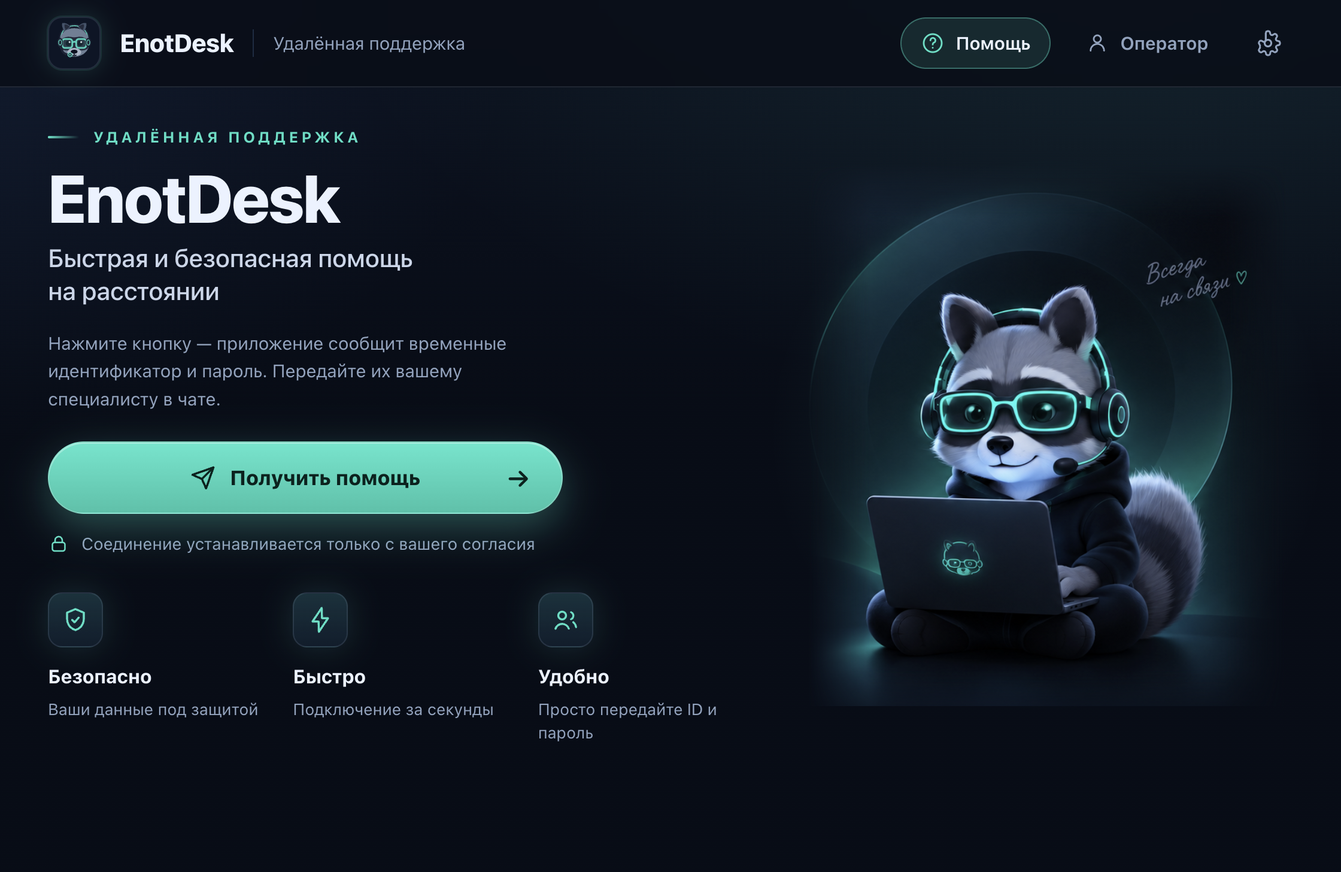
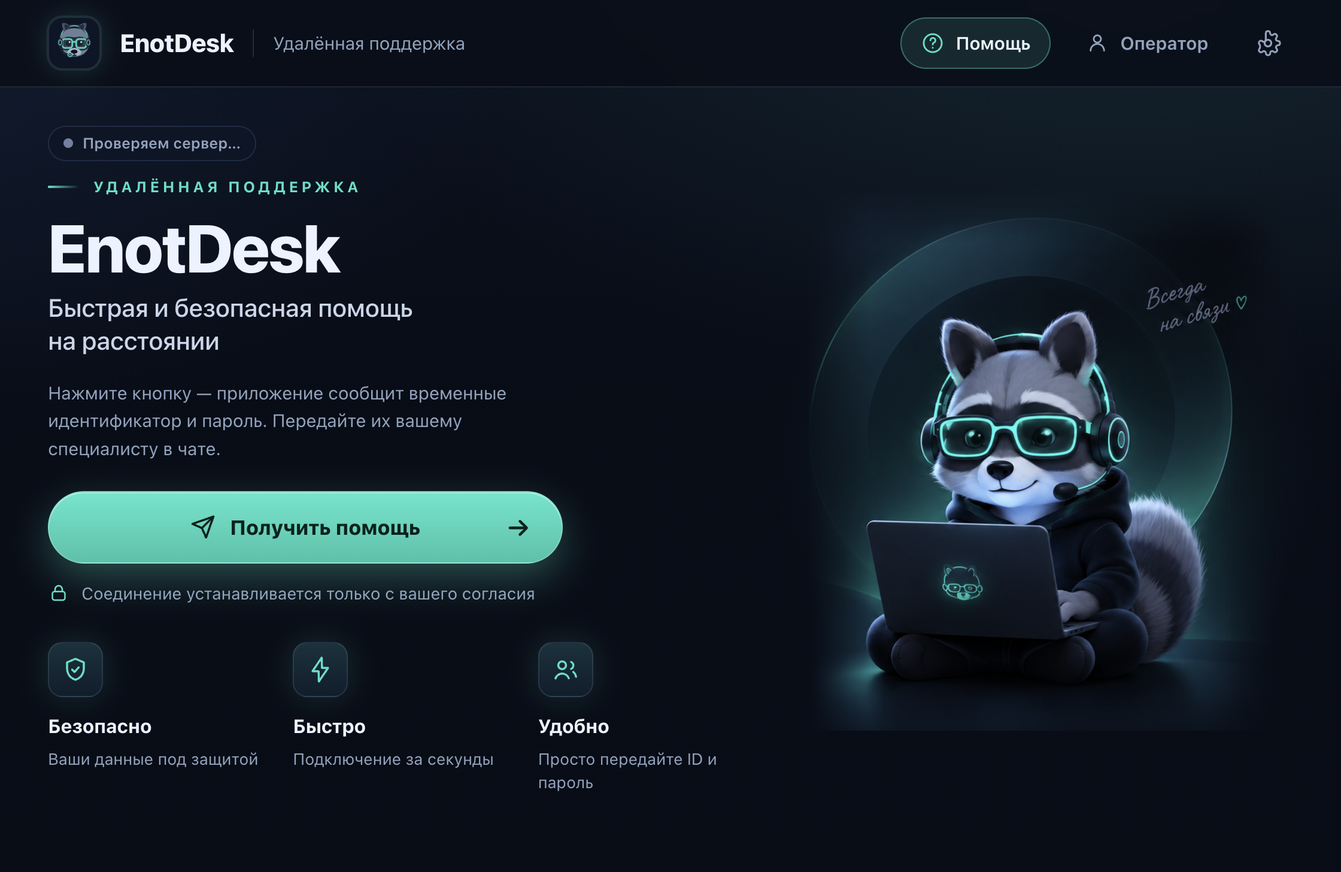
ADR 0019-0022, MANUAL-QA строки новых фич (297 тестов)

Changed region(s): [[0.0312, 0.1236, 0.5312, 0.9272], [0.625, 0.2163, 0.9375, 0.8345], [0.7188, 0.7727, 0.7812, 0.8036]]

diff --git a/docs/adr/0021-unattended-terminal-and-inventory.md b/docs/adr/0021-unattended-terminal-and-inventory.md
@@ -1,0 +1,17 @@
+# ADR 0021: unattended — терминал от службы (SYSTEM v1, честно), инвентарь через HTTP-heartbeat, toast WTSSendMessageW, скрытый renderer-мост RTC
+
+## Контекст
+
+R06–R09: unattended-набор должен стать полноценным — терминал машины, инвентарь (ОС, версия, uptime, диск), сообщение на экран, UI машин в браузерном операторе. Агент работает как служба: Windows — SYSTEM (session 0), Linux/macOS — сервисные контексты. Утверждённый сеанс — WebRTC + DataChannel; ретрансляция сервера по ADR 0014 не расширяется.
+
+## Решение
+
+Терминал — DC-канал `term` поверх утверждённого сеанса, та же политика, что у claim: причина и PIN уже проверены сервером. PTY-шов `client/lib/term.mjs`: `createTerm({shell, cols, rows}) → {write, onData, resize, kill}`, платформенное — в `spawnShellFor(platform)`. Контекст v1 честный: Windows — powershell от службы (SYSTEM), Linux — `sudo -u <console-user> bash`, macOS — `launchctl asuser` + zsh. Лимиты: 1 терминал на машину, кольцевой буфер вывода 512 КБ, таймаут простоя 5 мин; открытие/закрытие — в аудит (`term.open`/`term.close`) через переходы heartbeat агента. Инвентарь — расширение HTTP-heartbeat (без отдельного канала), новые маршруты `/machines/:id/inventory`, toast — `/machines/:id/toast`. WebRTC агента живёт в скрытом renderer-мосте: main процесса без `RTCPeerConnection`, вводом управляет main по `gate.isOpen()` как раньше. Toast: Windows — `WTSSendMessageW` (wtsapi32 через koffi) в активную консольную сессию — главный путь; Linux/macOS — notify-send/osascript best-effort с честным статусом.
+
+## Почему
+
+SYSTEM v1 — против `CreateProcessAsUser` от пользовательской сессии: хрупко (токены, десктопы, UAC), ломается между версиями Windows; лучше честно задокументировать контекст (SYSTEM), чем притворяться пользовательским. Аудит через heartbeat-переходы — против нового server-push пути: агент уже доверенно живёт heartbeat'ом, события открытия/закрытия не требуют второго канала и не могут «обогнать» факт соединения. Инвентарь через HTTP-heartbeat — против DataChannel: админ смотрит список машин без открытого сеанса, данные должны существовать вне WS-жизни. Скрытый renderer-мост — против RTCPeerConnection в main: WebRTC в main-процессе Electron отсутствует, а главное правило (решение о вводе — только main по реальному состоянию gate) сохраняется. Единственный новый тестовый шов — `createTerm` с фейк-PTY и фейковым spawn; реальные shells не тестируются автоматически.
+
+## Последствия
+
+Session 0 (служба Windows не видит консольный рабочий стол) и поведение живых shells (powershell/bash/zsh под SYSTEM/sudo/launchctl) — осознанные ограничения v1, приёмка только MANUAL-QA с приоритетом Windows; докладывать честно, не выдумывать. Лимит 512 КБ кольца означает: долгий вывод теряется с начала — это задокументировано в доке и UI, не «баг». Таймаут простоя 5 мин закрывает забытые сессии, но длинная пауза оператора требует переоткрытия. `WTSSendMessageW` требует активной консольной сессии: на машине без залогиненного пользователя toast честно вернет отказ, а не «успех». notify-send/osascript — best-effort: отсутствие утилиты — статус с причиной, не фейк.

diff --git a/docs/adr/0022-totp-webhooks-hardening.md b/docs/adr/0022-totp-webhooks-hardening.md
@@ -1,0 +1,17 @@
+# ADR 0022: усиление сервера — TOTP-2FA (RFC 6238, AES-256-GCM, totp_required до пароля) и webhooks (HMAC-SHA256, ретраи, маскировка секрета)
+
+## Контекст
+
+R10/R11: операторы включают TOTP-2FA; сервер отправляет webhooks о `session.started`/`session.ended` и `machine.claim.denied`. Токены/пароли/коды в БД — только хешами (существующая конвенция); секреты не утекают в логи. Доступной внешней криптобиблиотеки нет — рантайм ограничен `node:`-модулями.
+
+## Решение
+
+TOTP — собственный модуль `server/totp.mjs`: RFC 6238 (HMAC-SHA1, окно ±1), base32-энкодинг, тесты на официальных RFC-векторах. Секрет хранится зашифрованным AES-256-GCM ключом `ENOT_SECRET_KEY`; без ключа включение 2FA честно отказывает с подсказкой (тест отказа). При включении выдаются 10 резервных кодов — в БД только хеши. Порядок логина: проверка флага `totp_required` — до проверки пароля; ответ без оракула — сервер не раскрывает, какой именно фактор не прошёл (пароль верен или код верен — неотличимо для клиента). Webhooks — `server/webhooks.mjs`: `createWebhooks(db) → {emit(event, payload), configure(url, secret)}`, настройки в settings-таблице (url, secret, events); доставка отдельным асинхронным путём, ретраи 3× (1с/10с/60с), подпись `X-Enot-Signature: hex(HMAC-SHA256(secret, body))`; секрет в логах и выдаче настроек — замаскирован.
+
+## Почему
+
+Собственный TOTP-модуль — против зависимости: рантайм ограничен тремя точными пинами (ws/koffi/electron-updater, конвенция «не бампать»), а алгоритм RFC 6238 компактен и проверяется векторами RFC — это сильнее, чем вера в чужой пакет. AES-256-GCM от `ENOT_SECRET_KEY` — против хранения секрета в открытом виде: БД хранит хеши всего остального, секрет 2FA не может быть слабее. `totp_required` до пароля — против обратного порядка: сначала пароль, потом «а теперь код» раскрывает злоумышленнику, что пароль принят, — это и есть оракул. Ретраи фиксированными интервалами — против экспоненты/бесконечных: вебхук — best-effort уведомление, не шина; получатель, лежащий дольше 71 с, не должен копить бесконечную очередь. Маскировка секрета обязательна: логи сервера и вывод настроек читает админ, которому секрет не нужен (он нужен только подписанту).
+
+## Последствия
+
+Потеря `ENOT_SECRET_KEY` = потеря всех секретов 2FA: операторы перепривязывают TOTP из резервных кодов или заново; это задокументировано в `.env.example` и доке. Свой модуль означает: никаких алгоритмов кроме SHA1/6-цифр не появится без правки ADR; окно ±1 фиксирует терпимость к рассинхрону часов. Отказ 2FA без ключа — проверен тестом, подсказка ведёт к настройке `ENOT_SECRET_KEY`. Подпись вебхука позволяет получателю проверить подлинность без TLS-only доверия, но replay возможен: приёмник обязан проверять `timestamp`/id события сам — сервер это не гарантирует. Отсутствие url в настройках = webhooks молча выключены; ошибки доставки не валят основные пути (асинхронный путь изолирован).

diff --git a/docs/adr/0019-first-run-server-config.md b/docs/adr/0019-first-run-server-config.md
@@ -1,0 +1,17 @@
+# ADR 0019: первый запуск — вшитый адрес сервера, файл-конфиг рядом с exe, экран проверки; пол веса Electron Framework 192 МБ задокументирован
+
+## Контекст
+
+R03/R04/R05: self-hostер раздаёт клиент «своим» клиентам и не хочет, чтобы каждый вводил адрес сервера вручную; клиент при первом запуске должен честно показать, доступен сервер или нет. Дополнительно R01.1: часть веса сборки — мёртвый груз (исходники/доки koffi), но основной объём — Electron Framework, и нужно честно задокументировать, где пол. Замер: Electron Framework ~192 МБ — доминирующая часть артефакта.
+
+## Решение
+
+Резолв адреса сервера — фиксированный порядок: сохранённый в settings → `enotdesk-server.txt` рядом с exe → `ENOT_BAKED_SERVER_URL` (вшит при сборке через `extraMetadata`, с явным CLI-override) → дефолт `127.0.0.1:8080`. Функция `client/lib/first-run.mjs`: `resolveServerUrl({saved, execPath}) → {url, source}` — чистая, источник адреса виден в UI. Первый запуск показывает экран проверки соединения (результат health-запроса + кнопка «Проверить»), чип статуса живёт на главном экране. Срез мёртвого груза — только декларативные files-исключения в electron-builder.yml (`koffi/src`, `koffi/vendor`, `doc`); агрессивная хирургия Framework отвергнута.
+
+## Почему
+
+`${env:...}` в `extraMetadata` не раскрывается — доказано фактическим прогоном, поэтому вшивание делается подстановкой значения на этапе сборки, а не надеждой на подстановку переменных electron-builder'ом. Файл рядом с exe выбран против записи в системные пути: portable-сценарий остаётся переносимым, а источник адреса (`source`) можно показать пользователю. Экран проверки — против «тихого» фолбэка на дефолт: тихий фолбэк выглядит как успех и уводит клиента на localhost. Хирургия Framework (декомпозиция бинаря) — отвергнута: монолит, выгода ~0, риск сломать пакет; afterPack-скрипты — отвергнуты как рассинхрон с files-конфигом.
+
+## Последствия
+
+Клиент, собранный с `ENOT_BAKED_SERVER_URL`, работает без единого ручного ввода, но адрес остаётся перекрываемым: файл рядом с exe старше вшитого, сохранённый в settings — старше файла (порядок фиксирован, тестирован). `${env}` в `extraMetadata` считается неработающим — не использовать повторно. Пол веса — ~192 МБ Framework, задокументирован в BUILD.md: обещаний «в разы легче» нет, похудение дальше — только смена рантайма (ADR 0011, отдельный продукт). files-исключения koffi проверяются pack+smoke, а не `npm test`: срез задевает то, что в тестах не участвует.

diff --git a/docs/adr/0020-adaptive-bitrate.md b/docs/adr/0020-adaptive-bitrate.md
@@ -1,0 +1,17 @@
+# ADR 0020: адаптивный битрейт — чистая функция над rtc-stats, ступени 2500/1200/600, гистерезис 15 с, host-сторона
+
+## Контекст
+
+R02: на плохой сети видео рассыпается кадрами, вместо плавной деградации; после восстановления сети качество само не возвращается. rtc-stats уже собираются (`client/lib/rtc-stats.mjs`): loss% и rtt доступны host-стороне. Применять качество надо через существующий механизм `sender.setParameters` — новая сигнальная логика не нужна.
+
+## Решение
+
+Политика — чистая функция `client/lib/adaptive-bitrate.mjs`: `nextTarget({lossPct, rttMs}, current, lastChangeAt, now) → {target, changed}`. Ступени фиксированные: 2500 / 1200 / 600 кбит. Вниз — при потерях ≥5%; вверх — не раньше чем через 15 с после последнего изменения (гистерезис, в обе стороны). Вызов — host-сторона: host сам измеряет канал и сам режет свой исходящий поток; потери исходящего потока берутся из `remote-inbound-rtp` (remote сообщает, что видит по нашему sender), а не из локальных счётчиков приёмника.
+
+## Почему
+
+Чистая функция — против логики внутри обработчика stats: ступени и гистерезис — единственная нетривиальная логика рана, она обязана покрываться таблицей тестов (ступени вниз, возврат, запрет частых подъёмов), что возможно только без DOM/WebRTC. Ступени дискретные против плавного битрейта: плавная подстройка на зашумлённых метриках осциллирует, дискрет — предсказуем и виден пользователю на индикаторе. Гистерезис обязателен: без него метрика около порога даёт пинг-понг ступеней. `remote-inbound-rtp` — против вычисления потерь из `inbound-rtp`: host — отправитель, потери его потока видит только приёмник.
+
+## Последствия
+
+Тюнинг ступеней/порога — правка констант одного модуля и его тестов, рендерер и main не трогаются. Функция ничего не знает о WebRTC — возвращённый `target` применяет тот, кто её вызвал (host-путь); ошибки `setParameters` не маскируются. Метрика в первые секунды сеанса шумная — политика не гарантирует мгновенной реакции, только устойчивую; это осознанный выбор против ложных просадок. Живое поведение на реальных сетях — MANUAL-QA (как и весь WebRTC-путь).

diff --git a/docs/MANUAL-QA.md b/docs/MANUAL-QA.md
@@ -77,3 +77,13 @@
 - Wayland (Linux): управление вводом не поддерживается, честный статус в UI/логе.
 - macOS: TCC для LaunchDaemon без MDM ограничен (M3).
 - Сборки неподписаны: SmartScreen/Gatekeeper — обход по README (история 35).
+
+## Прогон upgrade-v2 (новые фичи — живая приёмка)
+
+- B3/B1/B2 — первый запуск: baked-адрес (сборка с `-c.extraMetadata.ENOT_BAKED_SERVER_URL=...`) → чип «Сервер доступен»; файл `enotdesk-server.txt` рядом с exe подхватывается; экран проверки показывает честный статус
+- Инвентарь — heartbeat несёт ОС/версию/uptime/диск → панель «Машины» показывает; мусор отбрасывается
+- Адаптивный битрейт — при потерях ≥5% видео ступенчато падает (2500→1200→600), при восстановлении растёт не раньше 15 с
+- TOTP-2FA — включение (ENOT_SECRET_KEY задан, QR/секрет, 10 резервных кодов), логин с кодом, неверный код, резервный код, отключение с паролем
+- Webhooks — session.started/ended + machine.claim.denied доходят с верной подписью; неверный секрет/URL → ретраи и тишина
+- Терминал (W-U11) — живой сквозной прогон через NAT: iceServers из /rtc-config доезжают до моста
+- Toast (W-U12) — живой WTSSendMessageW: тост в активной сессии; экран входа → no-active-session
